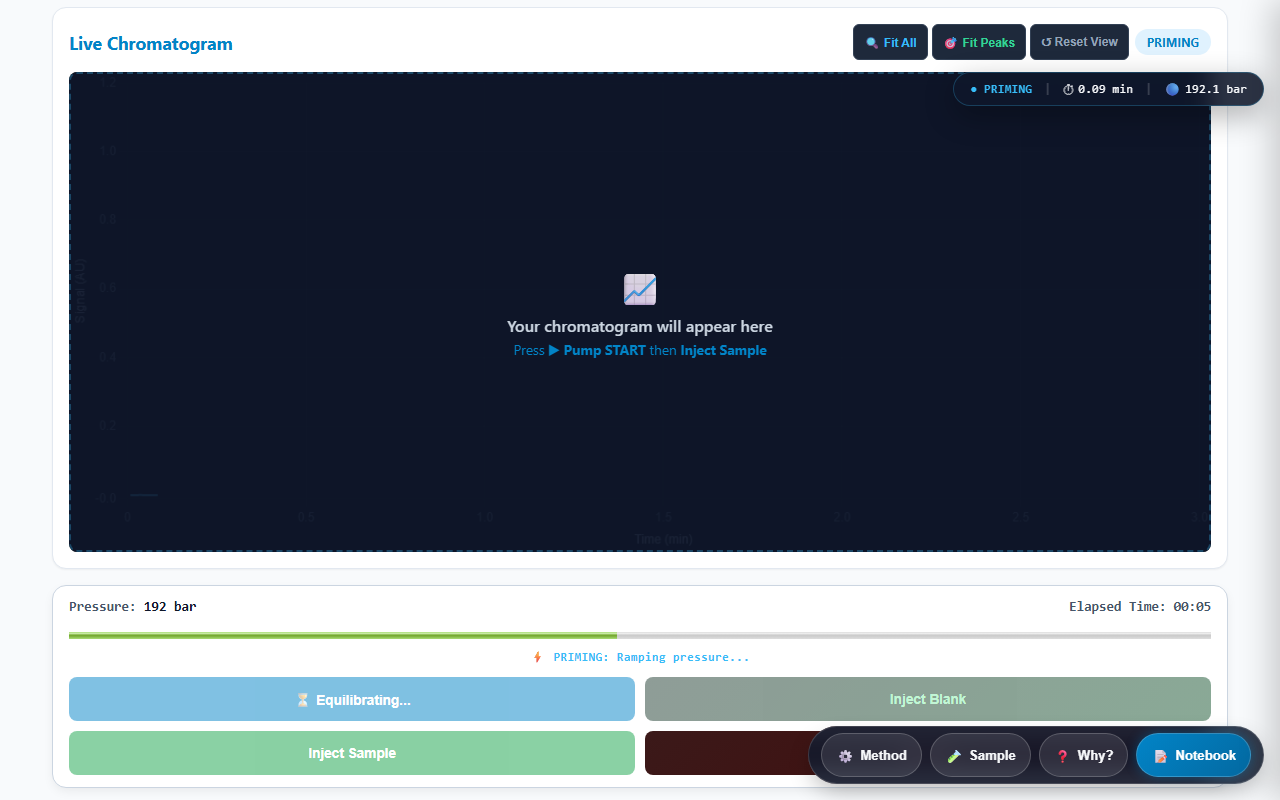
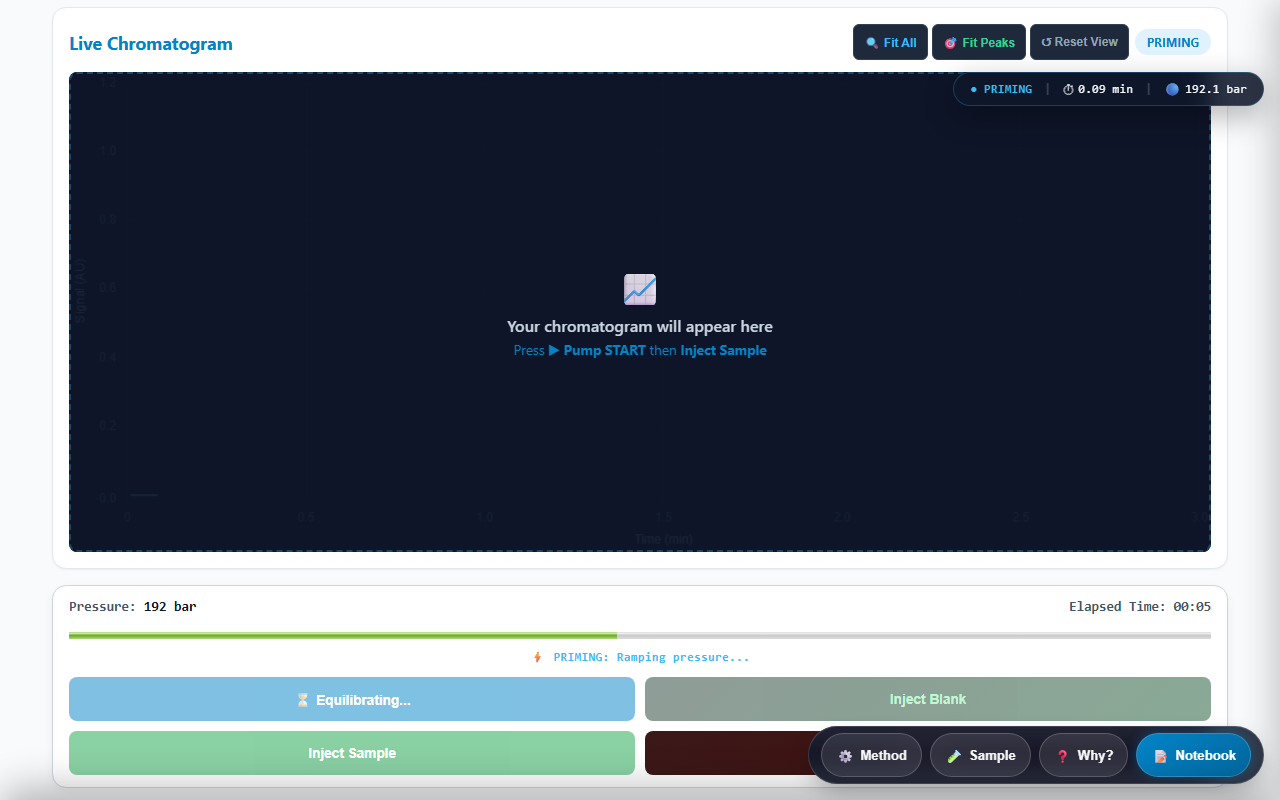
feat(ux): Add Morphing Single-Graph PiP and Contextual Bottom Sheets for Fluid Adaptive Workspace

Changed region(s): [[0.0, 0.9688, 1.0, 1.0]]

diff --git a/instruments/hplc/ui/UiCoordinator.js b/instruments/hplc/ui/UiCoordinator.js
@@ -39,6 +39,7 @@ export class UiCoordinator {
       if (this.views.runTimeline)  this._updateTimelinePhase(newState);
       this._updateCdsStateVal(newState);
       this._updateStepHighlight(newState);
+      this._updateFabDockForState(newState);
       const pipState = document.getElementById('pipStateVal');
       if (pipState) pipState.textContent = `● ${newState}`;
     });
@@ -234,24 +235,43 @@ export class UiCoordinator {
     }
   }
 
-  /** Render EducationalExplanation payload in modal */
+  /** Render EducationalExplanation payload in contextual Bottom Sheet */
   showWhyModal(paramId) {
     const exp = EducationalEngine.getParameterExplanation(paramId);
-    const overlay = document.getElementById('whyModalOverlay');
-    if (!overlay || !exp) return;
+    if (!exp) return;
 
-    document.getElementById('whyParamName').textContent = exp.parameter;
-    document.getElementById('whyPhysicalEffect').textContent = exp.physicalEffect;
-    document.getElementById('whyObservedEffect').textContent = exp.observedEffect;
-    document.getElementById('whyLearnerOutcome').textContent = exp.learnerOutcome;
-    document.getElementById('whyPracticalTip').textContent = exp.practicalTip || 'N/A';
+    const htmlContent = `
+      <div style="space-y:12px; font-family:-apple-system,BlinkMacSystemFont,sans-serif;">
+        <div style="margin-bottom:12px;">
+          <div style="font-size:0.75rem; text-transform:uppercase; letter-spacing:0.05em; color:var(--brand-primary); font-weight:700; margin-bottom:4px;">Physical Effect</div>
+          <p style="margin:0; font-size:0.9rem; color:var(--text-secondary); line-height:1.5;">${exp.physicalEffect}</p>
+        </div>
 
-    const refList = document.getElementById('whyReferences');
-    if (refList) {
-      refList.innerHTML = (exp.references || []).map(r => `<li>${r}</li>`).join('');
-    }
+        <div style="margin-bottom:12px;">
+          <div style="font-size:0.75rem; text-transform:uppercase; letter-spacing:0.05em; color:#8b5cf6; font-weight:700; margin-bottom:4px;">Observed Effect</div>
+          <p style="margin:0; font-size:0.9rem; color:var(--text-secondary); line-height:1.5;">${exp.observedEffect}</p>
+        </div>
 
-    overlay.style.display = 'flex';
+        <div style="margin-bottom:12px;">
+          <div style="font-size:0.75rem; text-transform:uppercase; letter-spacing:0.05em; color:var(--brand-success); font-weight:700; margin-bottom:4px;">Learner Outcome</div>
+          <p style="margin:0; font-size:0.9rem; color:var(--text-secondary); line-height:1.5;">${exp.learnerOutcome}</p>
+        </div>
+
+        <div style="margin-bottom:12px; background:#f0f9ff; border-left:3px solid var(--brand-primary); padding:10px 12px; border-radius:4px;">
+          <div style="font-size:0.75rem; text-transform:uppercase; letter-spacing:0.05em; color:var(--brand-primary); font-weight:700; margin-bottom:2px;">💡 Practical Tip</div>
+          <p style="margin:0; font-size:0.85rem; color:var(--text-primary);">${exp.practicalTip || 'N/A'}</p>
+        </div>
+
+        <div>
+          <div style="font-size:0.72rem; text-transform:uppercase; letter-spacing:0.05em; color:var(--text-muted); font-weight:700; margin-bottom:4px;">References</div>
+          <ul style="margin:0; padding-left:18px; font-size:0.78rem; color:var(--text-secondary); font-family:var(--font-mono);">
+            ${(exp.references || []).map(r => `<li>${r}</li>`).join('')}
+          </ul>
+        </div>
+      </div>
+    `;
+
+    this.openBottomSheet(`Why? ${exp.parameter}`, '❓', htmlContent);
   }
 
   /** Sprint E3: Bind Floating Quick Action Dock & Off-Canvas Drawers */
@@ -328,13 +348,14 @@ export class UiCoordinator {
     drawer.classList.add('active');
   }
 
-  /** Sprint U5: Persistent Context Sticky Telemetry & Live PiP Card */
+  /** Sprint U5 & U6: Morphing Single-Graph PiP & Contextual Bottom Sheets */
   bindStickyObserverAndPip() {
     this.pipDataPoints = [];
     const heroStrip = document.getElementById('cds-telemetry-strip');
-    const heroGraph = document.getElementById('graphCanvas');
+    const chromContainer = document.querySelector('.chromatogram-container');
     const stickyPip = document.getElementById('stickyTelemetryPip');
-    const livePip = document.getElementById('liveChromatogramPip');
+    const bottomSheetBackdrop = document.getElementById('bottomSheetBackdrop');
+    const closeBottomSheetBtn = document.getElementById('closeBottomSheetBtn');
 
     if (heroStrip && stickyPip && 'IntersectionObserver' in window) {
       const observer = new IntersectionObserver((entries) => {
@@ -349,26 +370,60 @@ export class UiCoordinator {
       observer.observe(heroStrip);
     }
 
-    if (heroGraph && livePip && 'IntersectionObserver' in window) {
-      const graphObserver = new IntersectionObserver((entries) => {
+    // Single GraphView Morphing PiP Observer
+    if (chromContainer && 'IntersectionObserver' in window) {
+      const morphObserver = new IntersectionObserver((entries) => {
         entries.forEach(entry => {
           const isRunning = this.controller.getState() === 'RUNNING';
           if (!entry.isIntersecting && isRunning) {
-            livePip.classList.add('visible');
+            chromContainer.classList.add('morph-pip-active');
           } else {
-            livePip.classList.remove('visible');
+            chromContainer.classList.remove('morph-pip-active');
           }
         });
-      }, { threshold: 0.2 });
-      graphObserver.observe(heroGraph);
-    }
+      }, { threshold: 0.1 });
+      morphObserver.observe(chromContainer);
 
-    if (livePip) {
-      livePip.addEventListener('click', () => {
-        const graph = document.getElementById('graphCanvas');
-        if (graph) graph.scrollIntoView({ behavior: 'smooth', block: 'center' });
+      chromContainer.addEventListener('click', (e) => {
+        if (chromContainer.classList.contains('morph-pip-active')) {
+          e.stopPropagation();
+          chromContainer.classList.remove('morph-pip-active');
+          chromContainer.scrollIntoView({ behavior: 'smooth', block: 'center' });
+        }
       });
     }
+
+    const closeSheet = () => {
+      const sheet = document.getElementById('bottomSheet');
+      if (sheet) sheet.classList.remove('active');
+      if (bottomSheetBackdrop) bottomSheetBackdrop.classList.remove('active');
+    };
+
+    if (closeBottomSheetBtn) closeBottomSheetBtn.addEventListener('click', closeSheet);
+    if (bottomSheetBackdrop) bottomSheetBackdrop.addEventListener('click', closeSheet);
+  }
+
+  openBottomSheet(title, icon, contentHtmlOrElement) {
+    const sheet = document.getElementById('bottomSheet');
+    const backdrop = document.getElementById('bottomSheetBackdrop');
+    const titleText = document.getElementById('bottomSheetTitleText');
+    const iconEl = document.getElementById('bottomSheetIcon');
+    const sheetBody = document.getElementById('bottomSheetBody');
+
+    if (!sheet || !backdrop || !sheetBody) return;
+
+    if (titleText) titleText.textContent = title;
+    if (iconEl) iconEl.textContent = icon;
+
+    sheetBody.innerHTML = '';
+    if (typeof contentHtmlOrElement === 'string') {
+      sheetBody.innerHTML = contentHtmlOrElement;
+    } else if (contentHtmlOrElement) {
+      sheetBody.appendChild(contentHtmlOrElement.cloneNode(true));
+    }
+
+    backdrop.classList.add('active');
+    sheet.classList.add('active');
   }
 
   /** Render real-time mini sparkline trace inside PiP Canvas */
@@ -396,5 +451,30 @@ export class UiCoordinator {
       else ctx.lineTo(x, y);
     });
     ctx.stroke();
+  }
+
+  /** Update Floating Quick Dock labeled chips dynamically based on experiment state */
+  _updateFabDockForState(state) {
+    const fabMethod = document.getElementById('fabMethodBtn');
+    const fabSample = document.getElementById('fabSampleBtn');
+    const fabWhy = document.getElementById('fabWhyBtn');
+    const fabNotebook = document.getElementById('fabNotebookBtn');
+
+    if (state === 'RUNNING' || state === 'INJECTING') {
+      if (fabMethod) fabMethod.style.display = 'none';
+      if (fabSample) fabSample.style.display = 'none';
+      if (fabWhy)    fabWhy.style.display = 'inline-flex';
+      if (fabNotebook) fabNotebook.style.display = 'inline-flex';
+    } else if (state === 'COMPLETED') {
+      if (fabMethod) fabMethod.style.display = 'inline-flex';
+      if (fabSample) fabSample.style.display = 'inline-flex';
+      if (fabWhy)    fabWhy.style.display = 'inline-flex';
+      if (fabNotebook) fabNotebook.style.display = 'inline-flex';
+    } else {
+      if (fabMethod) fabMethod.style.display = 'inline-flex';
+      if (fabSample) fabSample.style.display = 'inline-flex';
+      if (fabWhy)    fabWhy.style.display = 'inline-flex';
+      if (fabNotebook) fabNotebook.style.display = 'inline-flex';
+    }
   }
 }

diff --git a/css/global.css b/css/global.css
@@ -925,21 +925,101 @@ input[type="range"]:focus-visible {
   border: 1px solid rgba(255, 255, 255, 0.1);
 }
 
+/* ===== FLUID ADAPTIVE WORKSPACE: MORPHING GRAPH & BOTTOM SHEETS ===== */
+
+/* Morphing Single Graph Container Transformation */
+.chromatogram-container {
+  transition: all 0.35s cubic-bezier(0.16, 1, 0.3, 1);
+}
+
+.chromatogram-container.morph-pip-active {
+  position: fixed !important;
+  bottom: 80px !important;
+  left: 16px !important;
+  width: 300px !important;
+  height: 180px !important;
+  z-index: 950 !important;
+  box-shadow: 0 16px 40px rgba(0, 0, 0, 0.5) !important;
+  border: 2px solid #38bdf8 !important;
+  border-radius: var(--radius-md) !important;
+  background: rgba(15, 23, 42, 0.95) !important;
+  backdrop-filter: blur(16px) !important;
+  cursor: pointer;
+}
+
+.chromatogram-container.morph-pip-active .graph-controls,
+.chromatogram-container.morph-pip-active .chromatogram-header {
+  display: none !important;
+}
+
+/* Contextual Bottom Sheet Overlay */
+.bottom-sheet-backdrop {
+  position: fixed;
+  inset: 0;
+  background: rgba(15, 23, 42, 0.6);
+  backdrop-filter: blur(4px);
+  z-index: 1000;
+  opacity: 0;
+  visibility: hidden;
+  transition: opacity 0.25s ease, visibility 0.25s ease;
+}
+
+.bottom-sheet-backdrop.active {
+  opacity: 1;
+  visibility: visible;
+}
+
+.bottom-sheet {
+  position: fixed;
+  left: 0;
+  right: 0;
+  bottom: 0;
+  max-height: 80vh;
+  background: var(--bg-surface);
+  border-radius: var(--radius-lg) var(--radius-lg) 0 0;
+  box-shadow: 0 -10px 40px rgba(0, 0, 0, 0.3);
+  z-index: 1001;
+  display: flex;
+  flex-direction: column;
+  transform: translateY(100%);
+  transition: transform 0.32s cubic-bezier(0.16, 1, 0.3, 1);
+}
+
+.bottom-sheet.active {
+  transform: translateY(0);
+}
+
+.bottom-sheet-handle {
+  width: 36px;
+  height: 4px;
+  border-radius: 2px;
+  background: var(--border-strong);
+  margin: 10px auto 4px;
+}
+
+.bottom-sheet-header {
+  padding: 12px 20px;
+  border-bottom: 1px solid var(--border-subtle);
+  display: flex;
+  align-items: center;
+  justify-content: space-between;
+}
+
+.bottom-sheet-body {
+  padding: 20px;
+  overflow-y: auto;
+  flex: 1;
+}
+
 @media (max-width: 640px) {
-  .sticky-telemetry-pip {
-    top: 64px;
-    left: 12px;
-    right: 12px;
-    justify-content: center;
-    font-size: 0.72rem;
-    padding: 6px 10px;
-  }
-  .live-chromatogram-pip {
-    bottom: 135px;
-    left: 12px;
-    width: 170px;
+  .chromatogram-container.morph-pip-active {
+    width: 220px !important;
+    height: 140px !important;
+    bottom: 130px !important;
+    left: 12px !important;
   }
 }
+
 
 
 

diff --git a/instruments/hplc/index.html b/instruments/hplc/index.html
@@ -961,5 +961,19 @@
     <canvas id="pipSparklineCanvas" class="pip-sparkline" width="200" height="48"></canvas>
   </div>
 
+  <!-- Sprint U6: Contextual Bottom Sheet Overlay -->
+  <div id="bottomSheetBackdrop" class="bottom-sheet-backdrop" aria-hidden="true"></div>
+  <div id="bottomSheet" class="bottom-sheet" role="dialog" aria-modal="true" aria-labelledby="bottomSheetTitle">
+    <div class="bottom-sheet-handle"></div>
+    <div class="bottom-sheet-header">
+      <h3 id="bottomSheetTitle" style="margin:0; font-size:1.05rem; font-weight:700; color:var(--text-primary); display:flex; align-items:center; gap:8px;">
+        <span id="bottomSheetIcon">❓</span>
+        <span id="bottomSheetTitleText">Educational Explanation</span>
+      </h3>
+      <button id="closeBottomSheetBtn" class="drawer-close-btn" aria-label="Close sheet">✕</button>
+    </div>
+    <div id="bottomSheetBody" class="bottom-sheet-body"></div>
+  </div>
+
 </body>
 </html>
